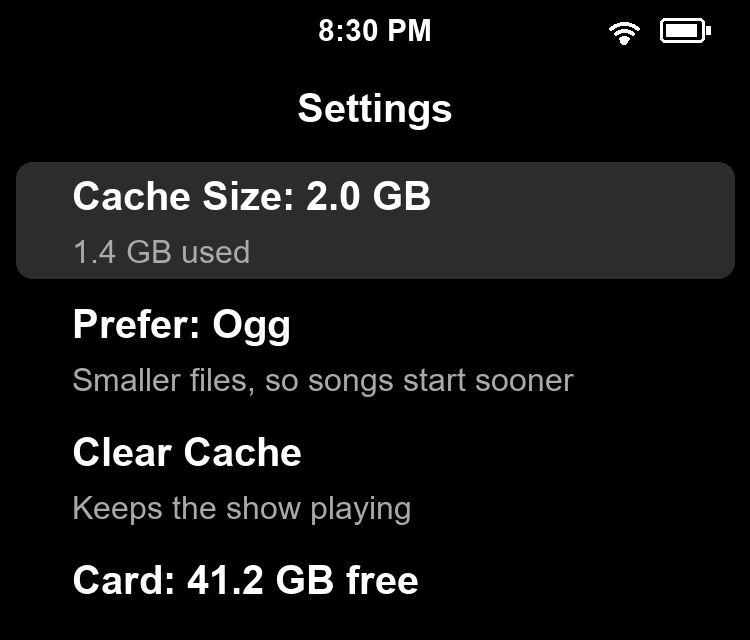
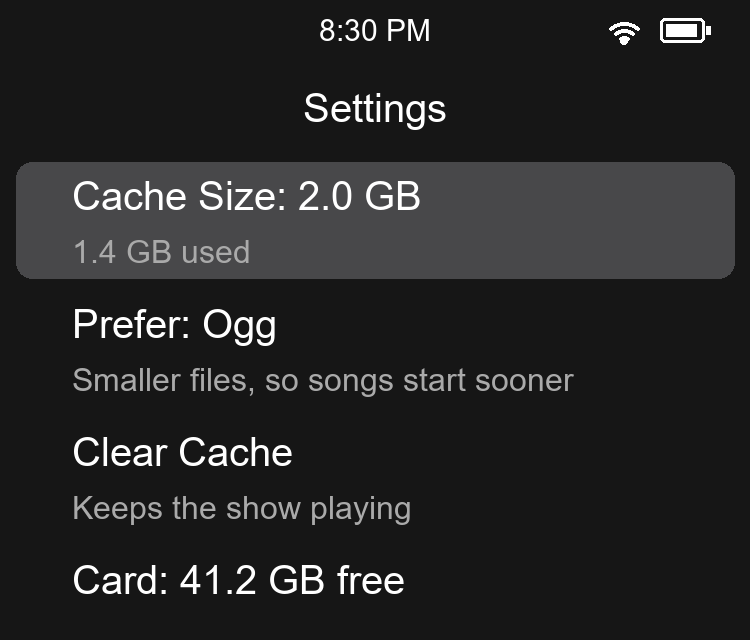
docs/guide: card full means the card, lighter mockups, no one-word last lines

diff --git a/docs/guide/guide.html b/docs/guide/guide.html
@@ -89,7 +89,7 @@ figure.one img { display: block; width: 2.6in; margin: 0 auto 4pt; border-radius
 .legal { margin-top: 0.4in; padding-top: 0.12in; border-top: 0.6pt solid #b9bec2; font-size: 7.6pt; color: #777; }
 .m { position: absolute; font-size: 1px; color: #fff; }
 
-p, li, td { orphans: 3; widows: 3; }
+p, li, td { orphans: 3; widows: 3; text-wrap: pretty; } /* no one-word last lines */
 p { break-inside: avoid; }
 ul, ol, table, pre, .note, .shots, figure { break-inside: avoid; }
 p:has(+ ul), p:has(+ ol), p:has(+ table), p:has(+ pre), p:has(+ .shots), p:has(+ figure), h2, h3 { break-after: avoid; }
@@ -247,7 +247,7 @@ moe</pre>
   <h2 id="trouble">Troubleshooting</h2>
   <ul>
     <li><b>“No MP3 or Ogg files in this recording”:</b> it only has FLAC, which doesn’t play. Choose another in More Versions.</li>
-    <li><b>“Card full: streaming stopped”:</b> streaming needs 1 GB free on the card. Make room, or lower Cache Size.</li>
+    <li><b>“Card full: streaming stopped”:</b> the card has less than 1 GB free, usually because of your own music. Saved shows only fill up to Cache Size, so make room on the card, or lower Cache Size to delete older shows.</li>
     <li><b>“Not found on the archive”</b> in My Artists: a line in <code>my-artists.txt</code> doesn’t name an archive.org artist. Fix or remove it.</li>
     <li><b>Something went wrong:</b> the menu shows the last problem, with <b>Details</b>. More is in <code>.lma/log.txt</code> on the card.</li>
     <li><b>An artist is missing:</b> some well-known bands aren’t on the archive. Search finds those beyond each letter’s 500.</li>

diff --git a/docs/guide/mockups.py b/docs/guide/mockups.py
@@ -5,7 +5,7 @@ Mockups, not screenshots. The rows are the app's own, captured from it running o
 against archive.org (cmd/q2ctl), and already cut to fit by it. The page follows Q2 Pod's
 page_row_detail (coverflow.c) and the Minimal theme's numbers (test/coverflow.py): a 48 px title,
 64 px rows, text from x 36, a 20 px caption over a 16 px #AAAAAA detail at y 36, and the chevron
-at x 322. Arial Bold stands in for Liberation Sans Bold, whose widths it shares. The selection
+at x 322. Arial stands in for Liberation Sans, whose widths it shares. The selection
 and the status bar are drawn to look like the theme, not taken from it.
 
     python docs/guide/mockups.py            # writes docs/guide/shots/*.png
@@ -25,8 +25,9 @@ def font(name, px):
     return ImageFont.truetype(str(FONTS / name), px * S)
 
 
-CAP, DET, TTL, BARF = font("arialbd.ttf", 20), font("arial.ttf", 16), font("arialbd.ttf", 20), font("arialbd.ttf", 15)
+CAP, DET, TTL, BARF = font("arial.ttf", 20), font("arial.ttf", 16), font("arial.ttf", 20), font("arial.ttf", 15)
 STAR = font("seguisym.ttf", 15)  # Arial has no ★
+BG, SEL = "#161616", "#48484a"  # a softer black than the screen's, for print
 
 
 def label(d, x, y, text, f, fill):
@@ -55,7 +56,7 @@ def status_bar(d, playing):
 
 def page(name, title, rows, sel=0, playing=True):
     """rows: (caption, detail, chevron); detail None for a one-line row."""
-    im = Image.new("RGB", (W * S, H * S), "black")
+    im = Image.new("RGB", (W * S, H * S), BG)
     d = ImageDraw.Draw(im)
     status_bar(d, playing)
     d.text((W / 2 * S, (BAR + TITLE / 2) * S), title, font=TTL, fill="white", anchor="mm")
@@ -65,7 +66,7 @@ def page(name, title, rows, sel=0, playing=True):
         if y >= H:
             break
         if i == sel:
-            d.rounded_rectangle([8 * S, (y + 3) * S, (W - 8) * S, (y + ROW - 3) * S], radius=8 * S, fill="#2c2c2e")
+            d.rounded_rectangle([8 * S, (y + 3) * S, (W - 8) * S, (y + ROW - 3) * S], radius=8 * S, fill=SEL)
         if det is None:
             label(d, X * S, (y + ROW / 2) * S, cap, CAP, "white")
         else:
